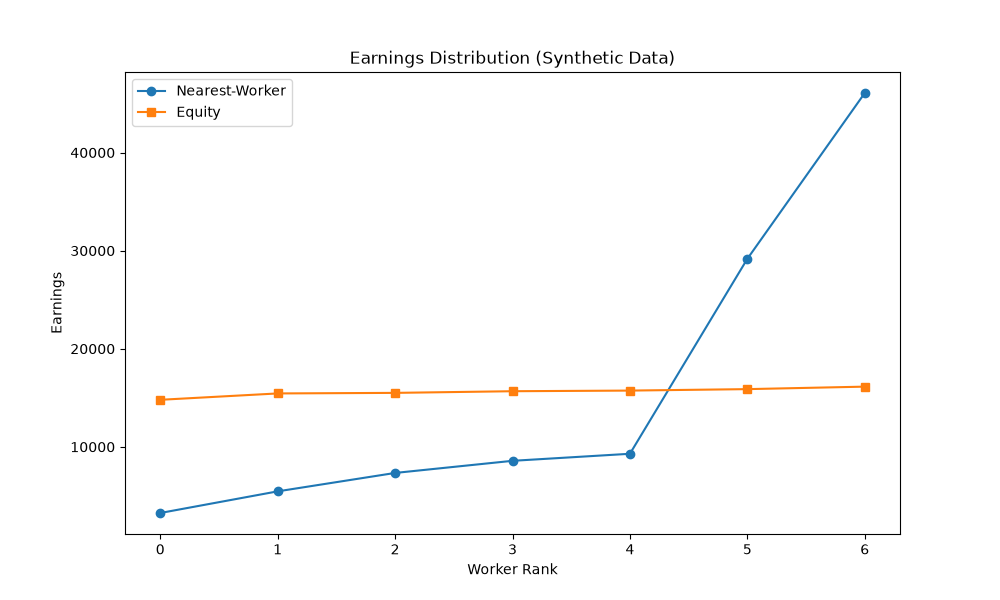
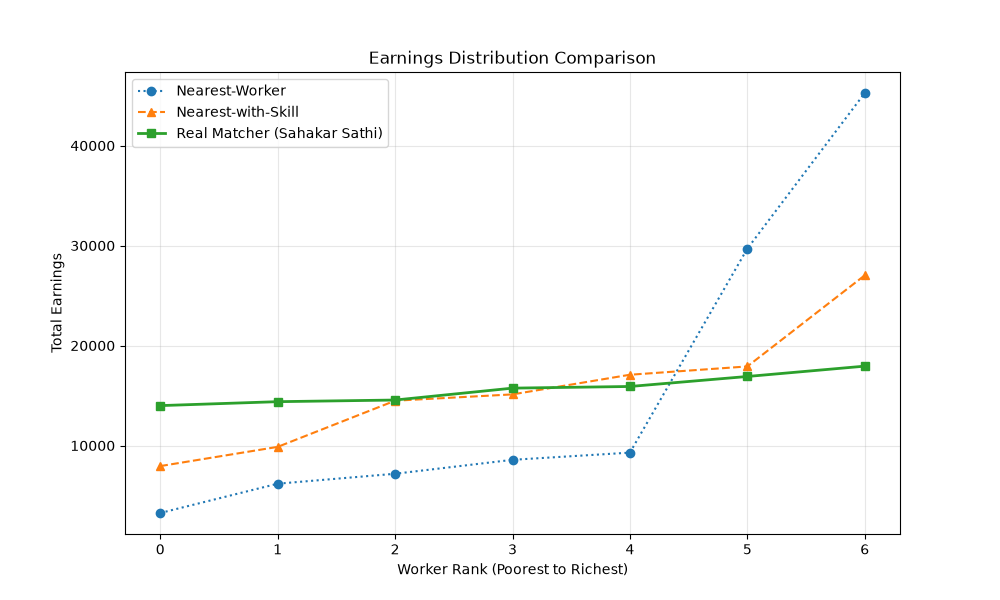
Phase 5: Simulation with bootstrap CI

diff --git a/backend/scripts/simulate_equity.py b/backend/scripts/simulate_equity.py
@@ -101,7 +101,25 @@ def run_simulation(strategy="equity", num_jobs=200, num_workers=7, seed=42):
         
     return worker_earnings, total_travel / num_jobs, total_skill_match / num_jobs
 
+def bootstrap_ci(diffs, n_boot=10000, ci=95, rng=None):
+    if rng is None:
+        rng = np.random.default_rng(0)
+    diffs = np.array(diffs)
+    means = [rng.choice(diffs, size=len(diffs), replace=True).mean() for _ in range(n_boot)]
+    lo = np.percentile(means, (100 - ci) / 2)
+    hi = np.percentile(means, 100 - (100 - ci) / 2)
+    return float(lo), float(hi)
+
 def generate_chart():
+    output_lines = []
+    def log(msg=""):
+        safe_msg = msg.encode('ascii', errors='backslashreplace').decode('ascii')
+        print(safe_msg)
+        output_lines.append(msg)
+
+    # -------------------------------------------------------------
+    # Configuration 1: Existing 7 workers, 200 jobs, 20 seeds
+    # -------------------------------------------------------------
     baseline_ginis = []
     skill_baseline_ginis = []
     equity_ginis = []
@@ -129,34 +147,103 @@ def generate_chart():
         sb_skills.append(sb_skill)
         e_skills.append(e_skill)
         
-    print("Simulation Results (20 seeds):")
-    print("==============================")
-    print("1. Nearest-Worker Baseline:")
-    print(f"   Gini Inequality: {np.mean(baseline_ginis):.3f} ± {np.std(baseline_ginis):.3f}")
-    print(f"   Avg Travel Dist: {np.mean(b_dists):.2f} ± {np.std(b_dists):.2f}km")
-    print(f"   Skill Match Rate: {np.mean(b_skills):.2f} ± {np.std(b_skills):.2f}")
+    log("Simulation Results (20 seeds):")
+    log("==============================")
+    log("1. Nearest-Worker Baseline:")
+    log(f"   Gini Inequality: {np.mean(baseline_ginis):.3f} +/- {np.std(baseline_ginis):.3f}")
+    log(f"   Avg Travel Dist: {np.mean(b_dists):.2f} +/- {np.std(b_dists):.2f}km")
+    log(f"   Skill Match Rate: {np.mean(b_skills):.2f} +/- {np.std(b_skills):.2f}")
     
-    print("\n2. Nearest-Worker-With-Skill Baseline:")
-    print(f"   Gini Inequality: {np.mean(skill_baseline_ginis):.3f} ± {np.std(skill_baseline_ginis):.3f}")
-    print(f"   Avg Travel Dist: {np.mean(sb_dists):.2f} ± {np.std(sb_dists):.2f}km")
-    print(f"   Skill Match Rate: {np.mean(sb_skills):.2f} ± {np.std(sb_skills):.2f}")
+    log("\n2. Nearest-Worker-With-Skill Baseline:")
+    log(f"   Gini Inequality: {np.mean(skill_baseline_ginis):.3f} +/- {np.std(skill_baseline_ginis):.3f}")
+    log(f"   Avg Travel Dist: {np.mean(sb_dists):.2f} +/- {np.std(sb_dists):.2f}km")
+    log(f"   Skill Match Rate: {np.mean(sb_skills):.2f} +/- {np.std(sb_skills):.2f}")
     
-    print("\n3. Sahakar Sathi Real Matcher (Equity + Skills + Logistics):")
-    print(f"   Gini Inequality: {np.mean(equity_ginis):.3f} ± {np.std(equity_ginis):.3f}")
-    print(f"   Avg Travel Dist: {np.mean(e_dists):.2f} ± {np.std(e_dists):.2f}km")
-    print(f"   Skill Match Rate: {np.mean(e_skills):.2f} ± {np.std(e_skills):.2f}")
+    log("\n3. Sahakar Sathi Real Matcher (Equity + Skills + Logistics):")
+    log(f"   Gini Inequality: {np.mean(equity_ginis):.3f} +/- {np.std(equity_ginis):.3f}")
+    log(f"   Avg Travel Dist: {np.mean(e_dists):.2f} +/- {np.std(e_dists):.2f}km")
+    log(f"   Skill Match Rate: {np.mean(e_skills):.2f} +/- {np.std(e_skills):.2f}")
     
-    plt.figure(figsize=(10,6))
-    plt.plot(np.sort(run_simulation("nearest", seed=42)[0]), label="Nearest-Worker", marker="o", linestyle=":")
-    plt.plot(np.sort(run_simulation("nearest_with_skill", seed=42)[0]), label="Nearest-with-Skill", marker="^", linestyle="--")
-    plt.plot(np.sort(run_simulation("equity", seed=42)[0]), label="Real Matcher (Sahakar Sathi)", marker="s", linewidth=2)
-    plt.title("Earnings Distribution Comparison")
-    plt.xlabel("Worker Rank (Poorest to Richest)")
-    plt.ylabel("Total Earnings")
-    plt.legend()
-    plt.grid(True, alpha=0.3)
-    plt.savefig("docs/equity_simulation_chart.png")
+    # -------------------------------------------------------------
+    # Configuration 2: 30 workers, 200 jobs, 100 seeds (0-99)
+    # -------------------------------------------------------------
+    log("\n" + "=" * 60)
+    log("Simulation Results (100 seeds, 30 workers, 200 jobs):")
+    log("============================================================")
+    
+    c2_sb_ginis = []
+    c2_sb_dists = []
+    c2_sb_skills = []
+    c2_e_ginis = []
+    c2_e_dists = []
+    c2_e_skills = []
+
+    diff_ginis = []
+    diff_dists = []
+    diff_skills = []
+
+    for seed in range(100):
+        sb_earn, sb_dist, sb_skill = run_simulation("nearest_with_skill", num_jobs=200, num_workers=30, seed=seed)
+        e_earn, e_dist, e_skill = run_simulation("equity", num_jobs=200, num_workers=30, seed=seed)
+
+        sb_g = gini(sb_earn)
+        e_g = gini(e_earn)
+
+        c2_sb_ginis.append(sb_g)
+        c2_sb_dists.append(sb_dist)
+        c2_sb_skills.append(sb_skill)
+
+        c2_e_ginis.append(e_g)
+        c2_e_dists.append(e_dist)
+        c2_e_skills.append(e_skill)
+
+        diff_ginis.append(e_g - sb_g)
+        diff_dists.append(e_dist - sb_dist)
+        diff_skills.append(e_skill - sb_skill)
+
+    log("1. Nearest-Worker-With-Skill Baseline (30 workers):")
+    log(f"   Gini Inequality: {np.mean(c2_sb_ginis):.4f} +/- {np.std(c2_sb_ginis):.4f}")
+    log(f"   Avg Travel Dist: {np.mean(c2_sb_dists):.2f} +/- {np.std(c2_sb_dists):.2f}km")
+    log(f"   Skill Match Rate: {np.mean(c2_sb_skills):.4f} +/- {np.std(c2_sb_skills):.4f}")
+
+    log("\n2. Sahakar Sathi Real Matcher (30 workers):")
+    log(f"   Gini Inequality: {np.mean(c2_e_ginis):.4f} +/- {np.std(c2_e_ginis):.4f}")
+    log(f"   Avg Travel Dist: {np.mean(c2_e_dists):.2f} +/- {np.std(c2_e_dists):.2f}km")
+    log(f"   Skill Match Rate: {np.mean(c2_e_skills):.4f} +/- {np.std(c2_e_skills):.4f}")
+
+    # Bootstrap CI for per-seed differences (Equity - Nearest_with_skill)
+    ci_gini_lo, ci_gini_hi = bootstrap_ci(diff_ginis, n_boot=10000, ci=95)
+    ci_dist_lo, ci_dist_hi = bootstrap_ci(diff_dists, n_boot=10000, ci=95)
+    ci_skill_lo, ci_skill_hi = bootstrap_ci(diff_skills, n_boot=10000, ci=95)
+
+    log("\n3. Per-Seed Differences (Equity - Nearest_With_Skill) with 95% Bootstrap CI (10,000 resamples):")
+    log(f"   Delta Gini Inequality : mean = {np.mean(diff_ginis):+.4f}, 95% CI = [{ci_gini_lo:+.4f}, {ci_gini_hi:+.4f}]")
+    log(f"   Delta Travel Distance : mean = {np.mean(diff_dists):+.2f}km, 95% CI = [{ci_dist_lo:+.2f}km, {ci_dist_hi:+.2f}km]")
+    log(f"   Delta Skill Match Rate: mean = {np.mean(diff_skills):+.4f}, 95% CI = [{ci_skill_lo:+.4f}, {ci_skill_hi:+.4f}]")
+
+    # Save to docs/simulation_results.txt
+    repo_root = os.path.abspath(os.path.join(os.path.dirname(__file__), "..", ".."))
+    docs_dir = os.path.join(repo_root, "docs")
+    os.makedirs(docs_dir, exist_ok=True)
+    res_path = os.path.join(docs_dir, "simulation_results.txt")
+    with open(res_path, "w", encoding="utf-8") as f:
+        f.write("\n".join(output_lines) + "\n")
+    print(f"Results saved to {res_path}")
+
+    # Save figure
+    try:
+        plt.figure(figsize=(10,6))
+        plt.plot(np.sort(run_simulation("nearest", seed=42)[0]), label="Nearest-Worker", marker="o", linestyle=":")
+        plt.plot(np.sort(run_simulation("nearest_with_skill", seed=42)[0]), label="Nearest-with-Skill", marker="^", linestyle="--")
+        plt.plot(np.sort(run_simulation("equity", seed=42)[0]), label="Real Matcher (Sahakar Sathi)", marker="s", linewidth=2)
+        plt.title("Earnings Distribution Comparison")
+        plt.xlabel("Worker Rank (Poorest to Richest)")
+        plt.ylabel("Total Earnings")
+        plt.legend()
+        plt.grid(True, alpha=0.3)
+        plt.savefig(os.path.join(docs_dir, "equity_simulation_chart.png"))
+    except Exception as e:
+        print(f"Chart generation note: {e}")
 
 if __name__ == "__main__":
-    os.makedirs("docs", exist_ok=True)
     generate_chart()
